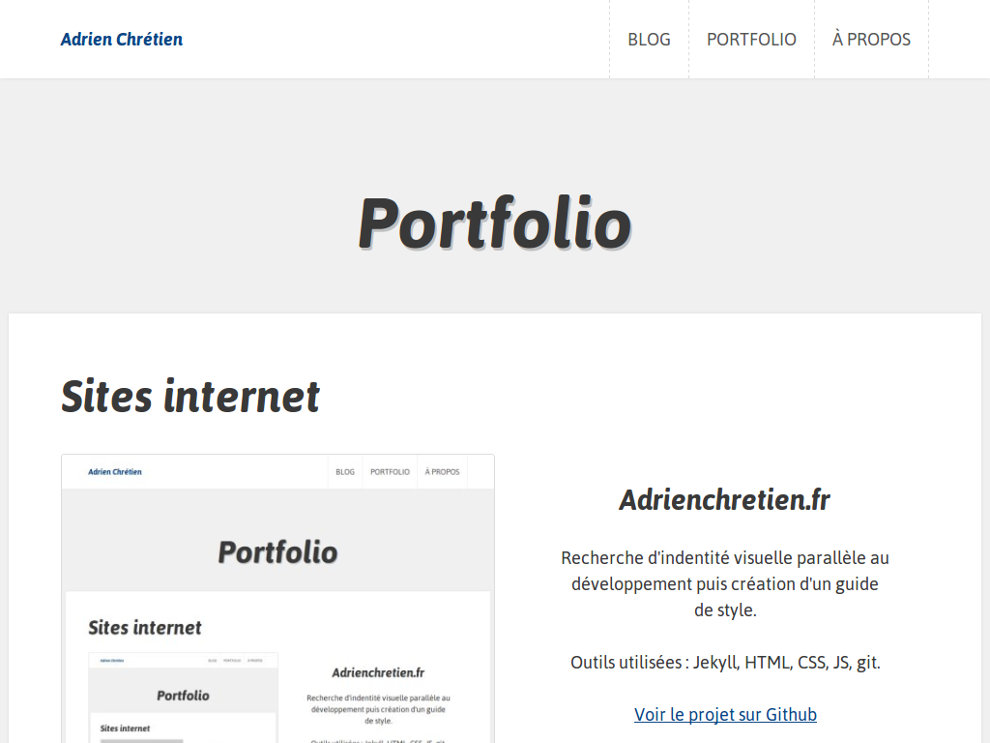
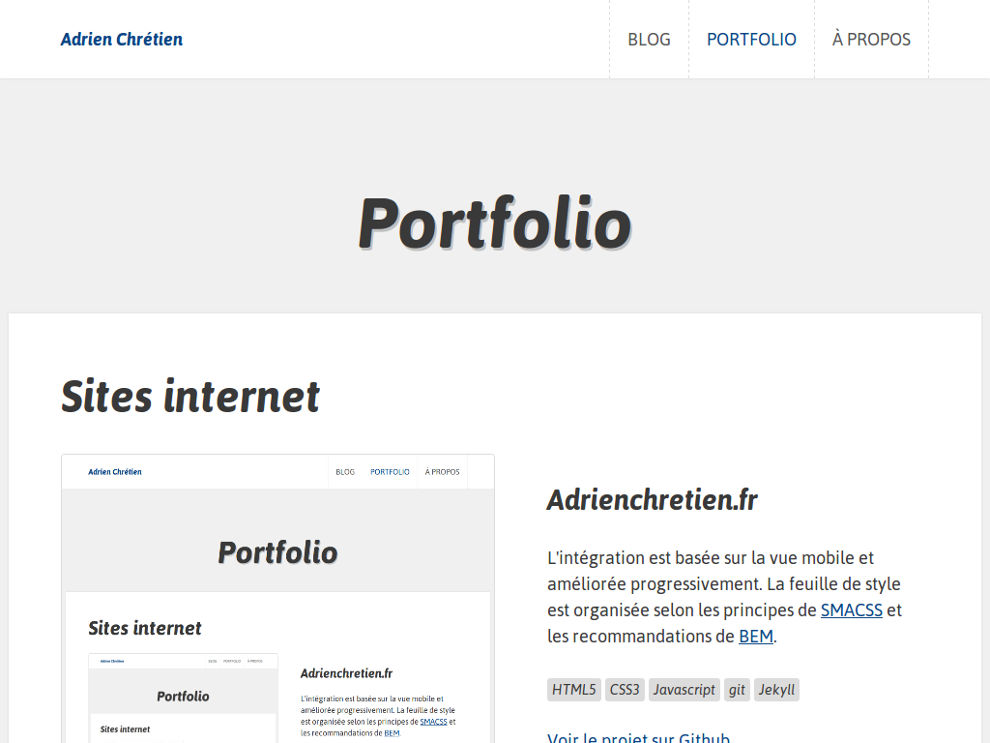
Content improvements and menu item hover state modified

diff --git a/portfolio/index.html b/portfolio/index.html
@@ -12,8 +12,8 @@ menu-index: 2
     <img class="preview__image" src="/images/portfolio-adrienchretien.jpg" alt="Aperçu du site adrienchretien.fr" />
     <div class="preview__description">
       <h3>Adrienchretien.fr</h3>
-      <p>Recherche d'indentité visuelle parallèle au développement puis création d'un guide de&nbsp;style.</p>
-      <p><span class="invisible">Outils utilisées : </span><span class="tag">HTML5</span> <span class="tag">CSS3</span> <span class="tag">JS</span> <span class="tag">git</span> <span class="tag">Jekyll</span></p>
+      <p>L'intégration est basée sur la vue mobile et améliorée progressivement. La feuille de style est organisée selon les principes de <a href="https://smacss.com/">SMACSS</a> et les recommandations de <a href="https://en.bem.info/">BEM</a>.</p>
+      <p><span class="invisible">Techniques utilisées : </span><span class="tag">HTML5</span> <span class="tag">CSS3</span> <span class="tag">Javascript</span> <span class="tag">git</span> <span class="tag">Jekyll</span></p>
       <div class="group">
         <a href="http://github.com/adrienchretien/adrienchretien.fr">Voir le projet sur Github</a>
       </div>
@@ -23,8 +23,8 @@ menu-index: 2
     <img class="preview__image" src="/images/portfolio-ffmoto.jpg" alt="Aperçu du site FFmoto.org" />
     <div class="preview__description">
       <h3>FFMoto.org</h3>
-      <p>Participation à l'intégration du contenu du site.</p>
-      <p><span class="invisible">Outils utilisées : </span><span class="tag">HTML5</span> <span class="tag">CSS3</span> <span class="tag">git</span></p>
+      <p>Intégration des sections Pass Circuit et Licences, ainsi qu'une partie du menu principal. Le site utilise un framework propriétaire générant les pages à l'aide d'XSLT.</p>
+      <p><span class="invisible">Techniques utilisées : </span><span class="tag">XHTML</span> <span class="tag">CSS</span> <span class="tag">git</span></p>
       <div class="group">
         <a href="http://www.ffmoto.org">Voir le site</a>
       </div>
@@ -34,8 +34,8 @@ menu-index: 2
     <img class="preview__image" src="/images/portfolio-ici.jpg" alt="Aperçu du site ICI-Conciergeries.com" />
     <div class="preview__description">
       <h3>ICI-Conciergeries.com</h3>
-      <p>Développement d'un CMS sur mesure avec PHP et intégration du site.</p>
-      <p><span class="invisible">Outils utilisées : </span><span class="tag">HTML5</span> <span class="tag">CSS3</span> <span class="tag">jQuery</span> <span class="tag">PHP</span></p>
+      <p>Le site fonctionne avec un micro-CMS en PHP que j'ai développé spécifiquement pour les besoins du client. L'intégration des pages inclut aussi un module AJAX pour afficher les derniers tweets.</p>
+      <p><span class="invisible">Techniques utilisées : </span><span class="tag">XHTML</span> <span class="tag">CSS</span> <span class="tag">MooTools</span> <span class="tag">PHP</span></p>
       <div class="group">
         <a href="http://www.ici-conciergeries.com">Voir le site</a>
       </div>
@@ -46,21 +46,21 @@ menu-index: 2
   <div class="flex flex--row flex--gutter">
     <article class="flex__item">
       <h3 class="mt0">PHP-journal</h3>
-      <p>Micro CMS pour tenir un journal de bord. J'y ai notamment utilisé le gestionnaire de dépendances Composer et un code open source pour analyser des docuements Markdown. De plus, j'ai développé un plugin jQuery pour créer un éditeur de texte immersif.</p>
+      <p>Micro-CMS pour tenir un journal de bord. J'y ai notamment utilisé le gestionnaire de dépendances Composer et un code open source pour analyser des documents Markdown. J'ai aussi développé un plugin javascript rendre la page d'édition plus immersive.</p>
       <div class="group">
         <a href="http://github.com/adrienchretien/php-journal">Voir le projet sur Github</a>
       </div>
     </article>
     <article class="flex__item">
       <h3 class="mt0">Otypo</h3>
-      <p>Extension pour l'éditeur <i lang="en">Brackets</i> corrigeant les erreurs de typographies communes, notamment celles liées aux guillemets. Elle est écrite en javascript et implémente spécification AMD de sorte qu'elle puisse être chargée indépendament par l'éditeur.</p>
+      <p>Extension pour l'éditeur <a href="http://brackets.io/" lang="en">Brackets</a> corrigeant les erreurs de typographies communes, notamment celles liées aux guillemets. Elle est écrite en javascript et implémente spécification AMD de sorte qu'elle puisse être chargée indépendament par l'éditeur.</p>
       <div class="group">
         <a href="http://github.com/adrienchretien/otypo">Voir le projet sur Github</a>
       </div>
     </article>
     <article class="flex__item">
       <h3 class="mt0">Jekyll-pattern-library</h3>
-      <p>Générateur de bibliothèque de modèles HTML/CSS pour <i lang="en">Jekyll</i>. L'extension produit une page listant tous les modèles, préalablement définis sous la forme de documents Markdown.</p>
+      <p>Générateur de bibliothèques de composants pour <a href="http://jekyllrb.com" lang="en">Jekyll</a>. L'extension est écrite en langage ruby et elle produit une page listant tous les composants préalablement définis sous la forme de documents Markdown.</p>
       <div class="group">
         <a href="http://github.com/adrienchretien/jekyll-pattern-library">Voir le projet sur Github</a>
       </div>

diff --git a/a-propos/index.html b/a-propos/index.html
@@ -9,13 +9,15 @@ menu-index: 3
 
 <div class="content">
   <div class="inner">
-    <p>Je m'appelle Adrien, je suis intégrateur web et développeur web front-end. J'aime programmer des interfaces de site web de qualité.</p>
-    <p>Dans le détail, j'étudie les éléments constituant les pages pour trouver des solutions de présentation adéquates, tout en prenant en compte les contraintes de présentation, de temps et de référencement.</p>
-    <p>Je conçois les pages en utilisant les principes de l'amélioration progressive. Cela me permet d'avoir un contenu bien structuré et de considérer les performances dès le début de la mission. En ce qui concerne les CSS, j'applique des principes empruntés aux méthodologies <abbr lang="en" title="Object Oriented CSS">OOCSS</abbr>, <abbr lang="en" title="Scalable and Modular Architecture for CSS">SMACSS</abbr> et <abbr lang="en" title="Block-Element-Modifier">BEM</abbr>, afin d'obtenir un code maintenable.</p>
-    <p>Pour me contacter vous pouvez m'écrire à l'adresse&nbsp;: contact @ l'adresse du site et, autrement, vous pouvez me trouver sur Twitter <a href="https://twitter.com/adrienchretien">@adrienchretien</a>.</p>
+    <p>Je suis intégrateur web. En fait, j'aime bien le graphisme et la programmation. Ce métier est à mi-chemin entre ces deux domaines. Il me permet de mettre en page des maquettes et de résoudre des problèmes par le code.</p>
+    <p>Afin de fournir un travail de qualité, j'étudie les composants des pages pour trouver des solutions de présentation adéquates. Tout en respectant les contraintes de présentation, de temps et de référencement.</p>
+    <p>Les pages que je conçois sont construites selon les principes de l'amélioration progressive. Cela me permet d'avoir un contenu bien structuré et de considérer les performances dès le début de la mission. En ce qui concerne les CSS, j'applique des principes empruntés aux méthodologies <abbr lang="en" title="Object Oriented CSS">OOCSS</abbr>, <abbr lang="en" title="Scalable and Modular Architecture for CSS">SMACSS</abbr> et <abbr lang="en" title="Block-Element-Modifier">BEM</abbr>, afin d'obtenir un code maintenable.</p>
+
+    <h2>Contact</h2>
+    <p>Vous pouvez me joindre à l'adresse contact @adrienchretien.fr (sans l'espace) ou bien vous pouvez me trouver sur Twitter <a href="https://twitter.com/adrienchretien">@adrienchretien</a>.</p>
 
     <h2 id="accesskeys">Raccourcis clavier</h2>
-    <p>Quelques combinaisons de touches ont été mis en place afin de faciliter la navigation sur le site. La liste ci-dessous énumère toutes les associations disponibles.</p>
+    <p>Quelques combinaisons de touches ont été mises en place afin de faciliter la navigation sur le site. La liste ci-dessous énumère toutes les associations disponibles.</p>
     <ul>
       <li>Accéder au contenu : <kbd>Alt</kbd> + <kbd>s</kbd></li>
       <li>Accéder au blog&nbsp;: <kbd>Alt</kbd> + <kbd>1</kbd></li>

diff --git a/css/main.scss b/css/main.scss
@@ -431,10 +431,13 @@ small,
       line-height: 1.5;
     }
     .nav__link {
+      position: relative;
+      top: 0;
       padding: 1.5em 1em;
-      -webkit-transition: .3s ease all;
-      transition: .3s ease all;
+      -webkit-transition: .2s ease top;
+      transition: .2s ease top;
     }
+    .nav__link:hover { top: .35em; }
 
   .wrapper {
     margin-left: auto;
@@ -520,7 +523,6 @@ small,
  ******************************************************************************/
 
 button:hover, .button:hover { background-color: #0c4684; }
-.nav__link:hover { background-color: #0c4684; }
 
 html { background-color: #f0f0f0; }
 
@@ -559,7 +561,6 @@ kbd { border-color: #555; }
 .pagination__item { color: #555; }
 
 button:hover, .button:hover { color: #fff; }
-.nav__link:hover { color: #fff; }
 
 body { color: #393939; }
 
